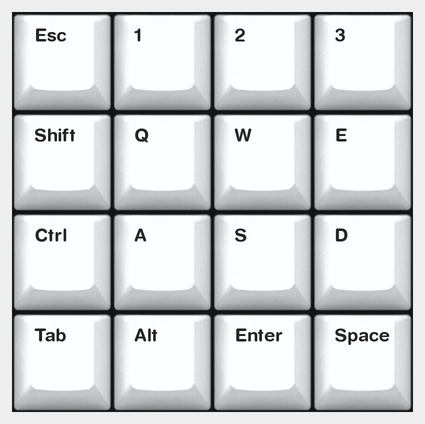
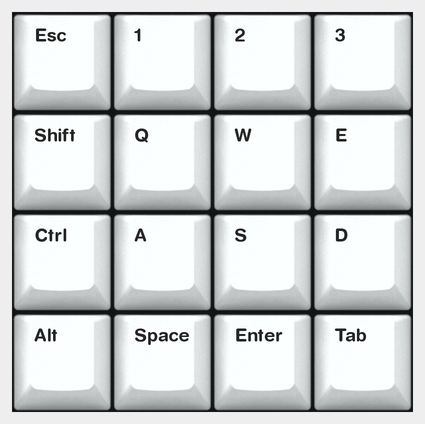
Move layer-switching key from key 12 (bottom-left) to key 15 (bottom-right)
Shift bottom-row bindings (keys 13-15 → 12-14) on all 21 layers.
Resolve hold-down conflicts on the new layer-switching position:
- Layer 6 (Mouse): rotate all columns left so right-click isn't on key 15
- Layer 7 (Gaming): swap Space and Enter so Space isn't on key 15
- Layer 10 (OnShape): move hold-for-constraints from key 15 to key 10
- Layer 20 (OnShape Numbers): move Backspace from key 15 to key 11
Rename os_enter_constraints to os_hold_constraints.
Update layout JSONs, README, and AGENTS.md.

Changed region(s): [[0.3059, 0.7665, 0.4588, 0.8278], [0.7647, 0.7665, 0.9176, 0.8278], [0.0612, 0.7665, 0.1529, 0.8278]]

diff --git a/AGENTS.md b/AGENTS.md
@@ -15,26 +15,26 @@ After every change to the keymap or configuration:
 ## Layer switching architecture
 
 **Normal layer switching:**
-- Hold key 12 (bottom-left) to activate the layer switcher.
-- While holding key 12, tap any other key to immediately switch to the corresponding user layer.
+- Hold the layer-switching key (bottom-right, key 15) to activate the layer switcher.
+- While holding the layer-switching key, tap any other key to immediately switch to the corresponding user layer.
 
 **Special layer switching:**
-- While holding key 12, hold another key for 1 second to access special functions.
+- While holding the layer-switching key, hold another key for 1 second to access special functions.
 - Special functions are assigned to keys starting from key 0 and grow sequentially.
 
-**Key 12 on each layer:**
-- Key 12 has a dual function on every layer: tap performs a layer-specific action, hold activates the layer switcher.
+**Layer-switching key on each layer:**
+- The layer-switching key has a dual function on every layer: tap performs a layer-specific action, hold activates the layer switcher.
 - The tap action should be something useful but not something that encourages holding (to avoid accidental layer switching).
 
 ## Layer discussions
 
-When discussing layers, treat key 12 (bottom-left) like any other key. Only mention its hold-to-switch-layer function when layer switching is specifically being discussed. When talking about macros or tap actions, just show what it sends on tap.
+When discussing layers, treat the layer-switching key like any other key. Only mention its hold-to-switch-layer function when layer switching is specifically being discussed. When talking about macros or tap actions, just show what it sends on tap.
 
-## Key 12 warnings
+## Layer-switching key warnings
 
-When proposing or assigning a function to key 12 that might cause the user to hold it down (e.g., drag lock, toggle behaviors, mouse movement, or anything that encourages sustained pressing), warn the user that this could accidentally trigger the layer switcher.
+When proposing or assigning a function to the layer-switching key that might cause the user to hold it down (e.g., drag lock, toggle behaviors, mouse movement, or anything that encourages sustained pressing), warn the user that this could accidentally trigger the layer switcher.
 
-Note that you shouldn't avoid assigning shortcuts to key 12 altogether (since it can be tapped), only avoid assigning shortcuts that might be *held*.
+Note that you shouldn't avoid assigning shortcuts to the layer-switching key altogether (since it can be tapped), only avoid assigning shortcuts that might be *held*.
 
 ## Layout files
 

diff --git a/README.md b/README.md
@@ -5,18 +5,18 @@ A 4x4 macro pad running ZMK firmware on a Nice!Nano v2.
 ## Features
 
 - 15 normal layers with 15 usable keys each
-- Layer switching via dedicated modifier key (bottom-left, key 12)
+- Layer switching via dedicated layer-switching key
 - All hotkey layers send RCtrl+Shift+Cmd + a character (for use as global hotkeys)
 - Idle deep sleep enabled; wakes on any key press after inactivity
 - 15 Bluetooth profiles via dedicated Bluetooth control screen
 
 ## Layer access
 
-Hold the modifier key (bottom-left, key 12) to activate the layer switcher. While holding key 12:
+Hold the layer-switching key (bottom-right, key 15) to activate the layer switcher. While holding it:
 
 **Normal layers (tap):**
 - Tap keys 0-11 to switch to normal layers 0-11.
-- Tap keys 13-15 to switch to normal layers 12-14.
+- Tap keys 12-14 to switch to normal layers 12-14.
 
 **Special layers (hold for 1 second, ordered by increasing danger):**
 - Key 0: Type battery voltage (for example: "Battery: 3.98V").
@@ -58,7 +58,7 @@ Key positions:
 
 **OnShape sub layers (accessed from Layer 10)**
 
-- **Layer 18**: OnShape Constraints (hold Enter). Shortcuts: D, H, V, I, T, E, B, Shift + L, Shift + O, Shift + M, Shift + Q, Shift + J, Shift + K, Shift + U, Shift + G.
+- **Layer 18**: OnShape Constraints (hold key 10). Shortcuts: D, H, V, I, T, E, B, Shift + L, Shift + O, Shift + M, Shift + Q, Shift + J, Shift + K, Shift + U, Shift + G.
 - **Layer 19**: OnShape Features (hold Escape). Shortcuts: Shift + E (Extrude), Shift + W (Revolve), Shift + F (Fillet). Remaining keys are empty.
 - **Layer 20**: OnShape Numbers (hold key 11). Numpad layout (7-8-9, 4-5-6, 1-2-3, 0) with *, mm macro, +, decimal point, and backspace.
 ## Customize
@@ -82,5 +82,5 @@ Pin mappings for each version are in `pins_v1.overlay` and `pins_v2.overlay`.
 
 ## Flashing
 
-1. Put the board in bootloader mode (hold modifier + hold key 2 for 1 second).
+1. Put the board in bootloader mode (hold the layer-switching key + hold key 2 for 1 second).
 2. Copy `build/zephyr/zmk.uf2` to the USB mass storage device that appears.
